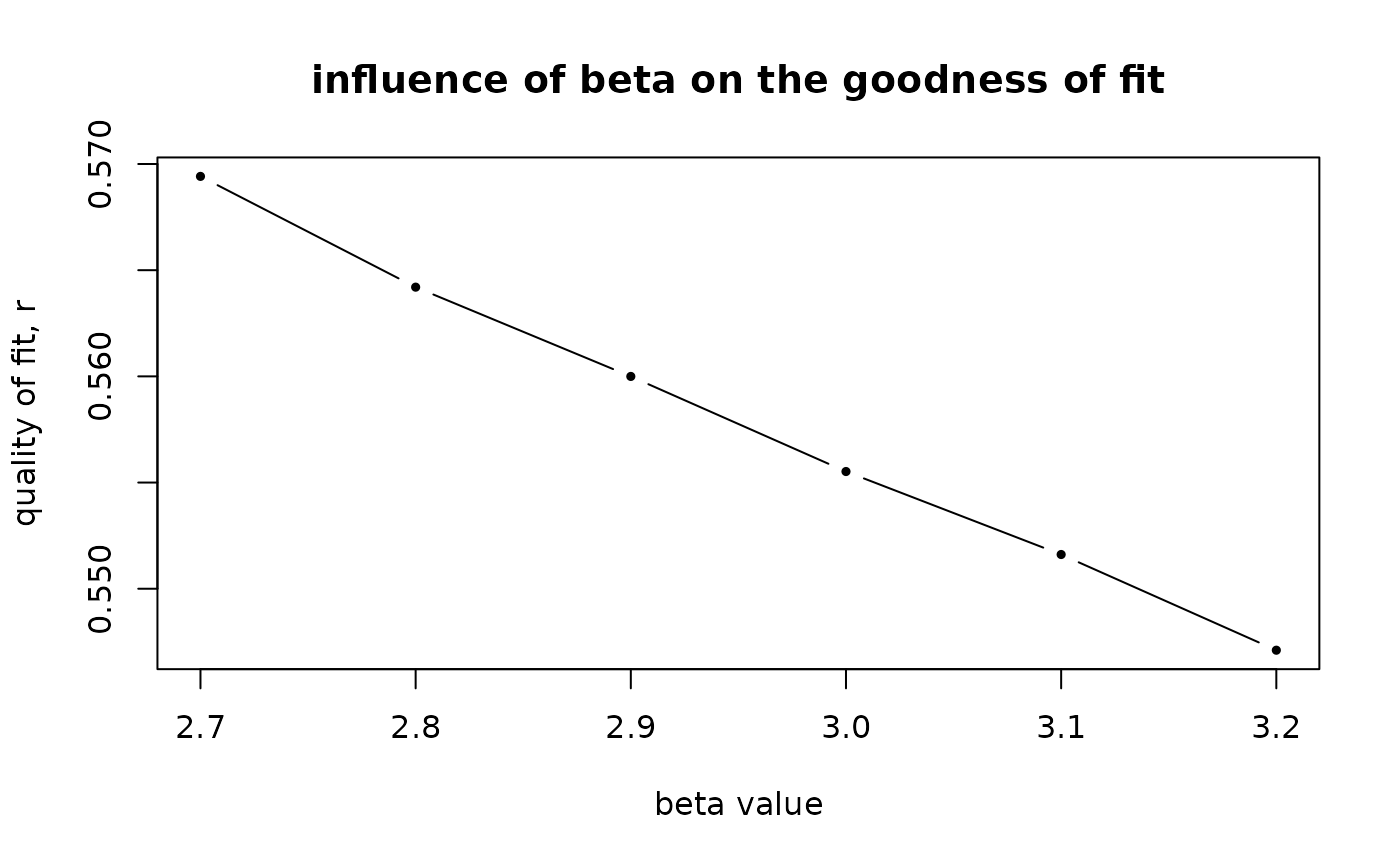
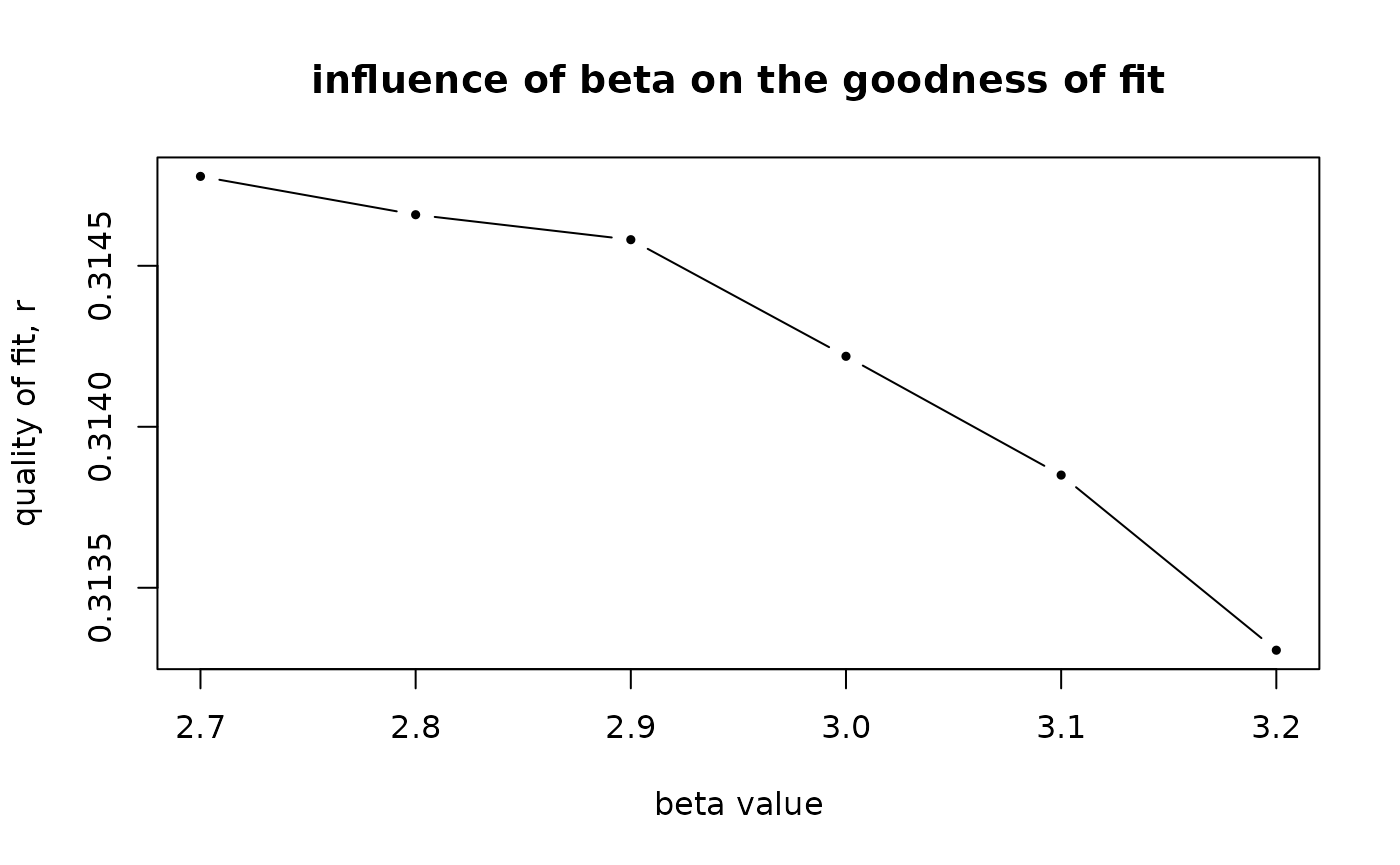
Deploying to gh-pages from @ ischlo/cppSim@bd26512b21cd6afe98d82de980b1934c41f14f0b 🚀

diff --git a/articles/gravity_model.html b/articles/gravity_model.html
@@ -66,6 +66,12 @@
 
     
     
+<pre><code><span><span class="co">## OpenMP detected, parallel computations will be performed.</span></span></code></pre>
+<pre><code><span><span class="co">## </span></span>
+<span><span class="co">## Attaching package: 'cppSim'</span></span></code></pre>
+<pre><code><span><span class="co">## The following object is masked _by_ '.GlobalEnv':</span></span>
+<span><span class="co">## </span></span>
+<span><span class="co">##     run_model</span></span></code></pre>
 <p>This file will cover the process of building a local version of the
 gravity model used to predict cycling and/or walking flows across
 London.</p>
@@ -96,26 +102,26 @@ and to the cost function and flow as matrices <strong>F</strong> and
 and
 <math display="inline" xmlns="http://www.w3.org/1998/Math/MathML"><semantics><msub><mi>T</mi><mrow><mi>i</mi><mi>j</mi></mrow></msub><annotation encoding="application/x-tex">T_{ij}</annotation></semantics></math>
 is a flow from i to j.</p>
-<div class="sourceCode" id="cb1"><pre class="downlit sourceCode r">
+<div class="sourceCode" id="cb4"><pre class="downlit sourceCode r">
 <code class="sourceCode R"><span><span class="co"># creating the O, D vectors. </span></span>
-<span><span class="va">O</span> <span class="op">&lt;-</span> <span class="fu"><a href="https://rdrr.io/r/base/apply.html" class="external-link">apply</a></span><span class="op">(</span><span class="va">flows_matrix</span>, <span class="va">sum</span>, MARGIN <span class="op">=</span> <span class="fl">2</span><span class="op">)</span> <span class="op">|&gt;</span> <span class="fu"><a href="https://rdrr.io/r/base/c.html" class="external-link">c</a></span><span class="op">(</span><span class="op">)</span></span>
+<span><span class="va">O</span> <span class="op">&lt;-</span> <span class="fu"><a href="https://rdrr.io/r/base/apply.html" class="external-link">apply</a></span><span class="op">(</span><span class="va">flows_test</span>, <span class="va">sum</span>, MARGIN <span class="op">=</span> <span class="fl">2</span><span class="op">)</span> <span class="op">|&gt;</span> <span class="fu"><a href="https://rdrr.io/r/base/c.html" class="external-link">c</a></span><span class="op">(</span><span class="op">)</span></span>
 <span></span>
-<span><span class="va">D</span> <span class="op">&lt;-</span> <span class="fu"><a href="https://rdrr.io/r/base/apply.html" class="external-link">apply</a></span><span class="op">(</span><span class="va">flows_matrix</span>, <span class="va">sum</span>, MARGIN <span class="op">=</span> <span class="fl">1</span><span class="op">)</span> <span class="op">|&gt;</span> <span class="fu"><a href="https://rdrr.io/r/base/c.html" class="external-link">c</a></span><span class="op">(</span><span class="op">)</span></span></code></pre></div>
-<div class="sourceCode" id="cb2"><pre class="downlit sourceCode r">
-<code class="sourceCode R"><span><span class="va">F_c</span> <span class="op">&lt;-</span> <span class="fu">cost_function</span><span class="op">(</span><span class="va">msoa_graph_dist</span>,<span class="fl">1</span>,type <span class="op">=</span> <span class="st">"exp"</span><span class="op">)</span></span></code></pre></div>
+<span><span class="va">D</span> <span class="op">&lt;-</span> <span class="fu"><a href="https://rdrr.io/r/base/apply.html" class="external-link">apply</a></span><span class="op">(</span><span class="va">flows_test</span>, <span class="va">sum</span>, MARGIN <span class="op">=</span> <span class="fl">1</span><span class="op">)</span> <span class="op">|&gt;</span> <span class="fu"><a href="https://rdrr.io/r/base/c.html" class="external-link">c</a></span><span class="op">(</span><span class="op">)</span></span></code></pre></div>
+<div class="sourceCode" id="cb5"><pre class="downlit sourceCode r">
+<code class="sourceCode R"><span><span class="va">F_c</span> <span class="op">&lt;-</span> <span class="fu">cost_function</span><span class="op">(</span><span class="va">distance_test</span>,<span class="fl">1</span>,type <span class="op">=</span> <span class="st">"exp"</span><span class="op">)</span></span></code></pre></div>
 <p>Next, we need to run the recursive procedure until the values
 stabilise. We introduce the threshold at which we will stop running the
 recursion
 <math display="inline" xmlns="http://www.w3.org/1998/Math/MathML"><semantics><mi>δ</mi><annotation encoding="application/x-tex">\delta</annotation></semantics></math>.
 It corresponds to the rate of change of the parameter with respect to
 the previous iteration.</p>
-<div class="sourceCode" id="cb3"><pre class="downlit sourceCode r">
+<div class="sourceCode" id="cb6"><pre class="downlit sourceCode r">
 <code class="sourceCode R"><span><span class="va">beta_calib</span> <span class="op">&lt;-</span> <span class="fu">foreach</span><span class="fu">::</span><span class="fu"><a href="https://rdrr.io/pkg/foreach/man/foreach.html" class="external-link">foreach</a></span><span class="op">(</span>i <span class="op">=</span> <span class="fl">28</span><span class="op">:</span><span class="fl">33</span></span>
 <span>                               ,.combine <span class="op">=</span> <span class="va">rbind</span><span class="op">)</span> <span class="op">%do%</span> <span class="op">{</span></span>
 <span>                                 <span class="va">beta</span> <span class="op">&lt;-</span> <span class="fl">0.1</span><span class="op">*</span><span class="op">(</span><span class="va">i</span> <span class="op">-</span> <span class="fl">1</span><span class="op">)</span></span>
 <span>                                 <span class="fu"><a href="https://rdrr.io/r/base/print.html" class="external-link">print</a></span><span class="op">(</span><span class="fu"><a href="https://rdrr.io/r/base/paste.html" class="external-link">paste0</a></span><span class="op">(</span><span class="st">"RUNNING MODEL FOR beta = "</span>,<span class="va">beta</span><span class="op">)</span><span class="op">)</span></span>
-<span>                                 <span class="va">run</span> <span class="op">&lt;-</span> <span class="fu"><a href="../reference/run_model.html">run_model</a></span><span class="op">(</span>flows <span class="op">=</span> <span class="va">flows_matrix</span></span>
-<span>                                                  ,distance <span class="op">=</span> <span class="va">msoa_graph_dist</span></span>
+<span>                                 <span class="va">run</span> <span class="op">&lt;-</span> <span class="fu"><a href="../reference/run_model.html">run_model</a></span><span class="op">(</span>flows <span class="op">=</span> <span class="va">flows_test</span></span>
+<span>                                                  ,distance <span class="op">=</span> <span class="va">distance_test</span></span>
 <span>                                                  ,beta <span class="op">=</span> <span class="va">beta</span></span>
 <span>                                                  ,type <span class="op">=</span> <span class="st">"exp"</span></span>
 <span>                                 <span class="op">)</span></span>
@@ -126,45 +132,45 @@ the previous iteration.</p>
 <span><span class="co">## [1] "cost function computed"</span></span>
 <span><span class="co">## [1] "calibration: over"</span></span>
 <span><span class="co">## [1] "model run: over"</span></span>
-<span><span class="co">## [1] "E_sor = 0.523562724685593"</span></span>
-<span><span class="co">## [1] "r2 = 0.569416661266395"</span></span>
-<span><span class="co">## [1] "RMSE = 761393"</span></span>
+<span><span class="co">## [1] "E_sor = 0.392146371104884"</span></span>
+<span><span class="co">## [1] "r2 = 0.314777655460119"</span></span>
+<span><span class="co">## [1] "RMSE = 22163551"</span></span>
 <span><span class="co">## [1] "RUNNING MODEL FOR beta = 2.8"</span></span>
 <span><span class="co">## [1] "cost function computed"</span></span>
 <span><span class="co">## [1] "calibration: over"</span></span>
 <span><span class="co">## [1] "model run: over"</span></span>
-<span><span class="co">## [1] "E_sor = 0.52139497161395"</span></span>
-<span><span class="co">## [1] "r2 = 0.564200958950744"</span></span>
-<span><span class="co">## [1] "RMSE = 782866"</span></span>
+<span><span class="co">## [1] "E_sor = 0.39249333259527"</span></span>
+<span><span class="co">## [1] "r2 = 0.314658641698322"</span></span>
+<span><span class="co">## [1] "RMSE = 22135915"</span></span>
 <span><span class="co">## [1] "RUNNING MODEL FOR beta = 2.9"</span></span>
 <span><span class="co">## [1] "cost function computed"</span></span>
 <span><span class="co">## [1] "calibration: over"</span></span>
 <span><span class="co">## [1] "model run: over"</span></span>
-<span><span class="co">## [1] "E_sor = 0.519608318386737"</span></span>
-<span><span class="co">## [1] "r2 = 0.559996858096147"</span></span>
-<span><span class="co">## [1] "RMSE = 802874"</span></span>
+<span><span class="co">## [1] "E_sor = 0.39273122700898"</span></span>
+<span><span class="co">## [1] "r2 = 0.314581076323428"</span></span>
+<span><span class="co">## [1] "RMSE = 22112582"</span></span>
 <span><span class="co">## [1] "RUNNING MODEL FOR beta = 3"</span></span>
 <span><span class="co">## [1] "cost function computed"</span></span>
 <span><span class="co">## [1] "calibration: over"</span></span>
 <span><span class="co">## [1] "model run: over"</span></span>
-<span><span class="co">## [1] "E_sor = 0.517600476428077"</span></span>
-<span><span class="co">## [1] "r2 = 0.555519600639465"</span></span>
-<span><span class="co">## [1] "RMSE = 823828"</span></span>
+<span><span class="co">## [1] "E_sor = 0.392611773609201"</span></span>
+<span><span class="co">## [1] "r2 = 0.314218919524871"</span></span>
+<span><span class="co">## [1] "RMSE = 22102764"</span></span>
 <span><span class="co">## [1] "RUNNING MODEL FOR beta = 3.1"</span></span>
 <span><span class="co">## [1] "cost function computed"</span></span>
 <span><span class="co">## [1] "calibration: over"</span></span>
 <span><span class="co">## [1] "model run: over"</span></span>
-<span><span class="co">## [1] "E_sor = 0.515506983755352"</span></span>
-<span><span class="co">## [1] "r2 = 0.551611759795211"</span></span>
-<span><span class="co">## [1] "RMSE = 843738"</span></span>
+<span><span class="co">## [1] "E_sor = 0.392377057376276"</span></span>
+<span><span class="co">## [1] "r2 = 0.313849972411283"</span></span>
+<span><span class="co">## [1] "RMSE = 22098059"</span></span>
 <span><span class="co">## [1] "RUNNING MODEL FOR beta = 3.2"</span></span>
 <span><span class="co">## [1] "cost function computed"</span></span>
 <span><span class="co">## [1] "calibration: over"</span></span>
 <span><span class="co">## [1] "model run: over"</span></span>
-<span><span class="co">## [1] "E_sor = 0.513382277125238"</span></span>
-<span><span class="co">## [1] "r2 = 0.547105339696983"</span></span>
-<span><span class="co">## [1] "RMSE = 864943"</span></span></code></pre>
-<div class="sourceCode" id="cb5"><pre class="downlit sourceCode r">
+<span><span class="co">## [1] "E_sor = 0.391924520987228"</span></span>
+<span><span class="co">## [1] "r2 = 0.313306091157044"</span></span>
+<span><span class="co">## [1] "RMSE = 22103251"</span></span></code></pre>
+<div class="sourceCode" id="cb8"><pre class="downlit sourceCode r">
 <code class="sourceCode R"><span><span class="fu"><a href="https://rdrr.io/r/graphics/plot.default.html" class="external-link">plot</a></span><span class="op">(</span><span class="va">beta_calib</span><span class="op">[</span>,<span class="fl">1</span><span class="op">]</span></span>
 <span>     ,<span class="va">beta_calib</span><span class="op">[</span>,<span class="fl">2</span><span class="op">]</span></span>
 <span>     ,xlab <span class="op">=</span> <span class="st">"beta value"</span></span>
@@ -174,7 +180,7 @@ the previous iteration.</p>
 <span>     ,cex <span class="op">=</span> <span class="fl">0.5</span></span>
 <span>     ,type <span class="op">=</span> <span class="st">"b"</span><span class="op">)</span></span></code></pre></div>
 <p><img src="gravity_model_files/figure-html/unnamed-chunk-5-1.png" width="700"></p>
-<div class="sourceCode" id="cb6"><pre class="downlit sourceCode r">
+<div class="sourceCode" id="cb9"><pre class="downlit sourceCode r">
 <code class="sourceCode R"><span><span class="va">beta_best_fit</span> <span class="op">&lt;-</span> <span class="va">beta_calib</span><span class="op">[</span><span class="fu"><a href="https://rdrr.io/r/base/which.html" class="external-link">which</a></span><span class="op">(</span><span class="va">beta_calib</span><span class="op">[</span>,<span class="fl">2</span><span class="op">]</span> <span class="op">==</span> <span class="fu"><a href="https://rdrr.io/r/base/Extremes.html" class="external-link">max</a></span><span class="op">(</span><span class="va">beta_calib</span><span class="op">[</span>,<span class="fl">2</span><span class="op">]</span><span class="op">)</span><span class="op">)</span>,<span class="fl">1</span><span class="op">]</span></span>
 <span><span class="va">x</span> <span class="op">&lt;-</span> <span class="fu"><a href="https://rdrr.io/r/base/seq.html" class="external-link">seq_len</a></span><span class="op">(</span><span class="fl">100</span><span class="op">)</span><span class="op">/</span><span class="fl">20</span></span>
 <span><span class="fu"><a href="https://rdrr.io/r/graphics/plot.default.html" class="external-link">plot</a></span><span class="op">(</span><span class="va">x</span></span>
@@ -186,19 +192,19 @@ the previous iteration.</p>
 <span>     ,cex <span class="op">=</span> <span class="fl">0.5</span></span>
 <span>     ,type <span class="op">=</span> <span class="st">"l"</span><span class="op">)</span></span></code></pre></div>
 <p><img src="gravity_model_files/figure-html/unnamed-chunk-6-1.png" width="700"></p>
-<div class="sourceCode" id="cb7"><pre class="downlit sourceCode r">
-<code class="sourceCode R"><span><span class="va">run_best_fit</span> <span class="op">&lt;-</span> <span class="fu"><a href="../reference/run_model.html">run_model</a></span><span class="op">(</span>flows <span class="op">=</span> <span class="va">flows_matrix</span></span>
-<span>                 ,distance <span class="op">=</span> <span class="va">msoa_graph_dist</span></span>
+<div class="sourceCode" id="cb10"><pre class="downlit sourceCode r">
+<code class="sourceCode R"><span><span class="va">run_best_fit</span> <span class="op">&lt;-</span> <span class="fu"><a href="../reference/run_model.html">run_model</a></span><span class="op">(</span>flows <span class="op">=</span> <span class="va">flows_test</span></span>
+<span>                 ,distance <span class="op">=</span> <span class="va">distance_test</span></span>
 <span>                 ,beta <span class="op">=</span> <span class="va">beta_best_fit</span></span>
 <span>                 ,type <span class="op">=</span> <span class="st">"exp"</span></span>
 <span>                 <span class="op">)</span></span></code></pre></div>
 <pre><code><span><span class="co">## [1] "cost function computed"</span></span>
 <span><span class="co">## [1] "calibration: over"</span></span>
 <span><span class="co">## [1] "model run: over"</span></span>
-<span><span class="co">## [1] "E_sor = 0.523562724685593"</span></span>
-<span><span class="co">## [1] "r2 = 0.569416661266395"</span></span>
-<span><span class="co">## [1] "RMSE = 761393"</span></span></code></pre>
-<div class="sourceCode" id="cb9"><pre class="downlit sourceCode r">
+<span><span class="co">## [1] "E_sor = 0.392146371104884"</span></span>
+<span><span class="co">## [1] "r2 = 0.314777655460119"</span></span>
+<span><span class="co">## [1] "RMSE = 22163551"</span></span></code></pre>
+<div class="sourceCode" id="cb12"><pre class="downlit sourceCode r">
 <code class="sourceCode R"><span><span class="fu"><a href="https://rdrr.io/r/graphics/plot.default.html" class="external-link">plot</a></span><span class="op">(</span><span class="fu"><a href="https://rdrr.io/r/base/seq.html" class="external-link">seq_along</a></span><span class="op">(</span><span class="va">run_best_fit</span><span class="op">$</span><span class="va">calib</span><span class="op">)</span></span>
 <span>     ,<span class="va">run_best_fit</span><span class="op">$</span><span class="va">calib</span></span>
 <span>     ,xlab <span class="op">=</span> <span class="st">"iteration"</span></span>
@@ -210,8 +216,8 @@ the previous iteration.</p>
 <span>     </span>
 <span><span class="op">)</span></span></code></pre></div>
 <p><img src="gravity_model_files/figure-html/unnamed-chunk-8-1.png" width="700"></p>
-<div class="sourceCode" id="cb10"><pre class="downlit sourceCode r">
-<code class="sourceCode R"><span><span class="fu"><a href="https://rdrr.io/r/graphics/plot.default.html" class="external-link">plot</a></span><span class="op">(</span><span class="va">flows_matrix</span></span>
+<div class="sourceCode" id="cb13"><pre class="downlit sourceCode r">
+<code class="sourceCode R"><span><span class="fu"><a href="https://rdrr.io/r/graphics/plot.default.html" class="external-link">plot</a></span><span class="op">(</span><span class="va">flows_test</span></span>
 <span>     ,<span class="va">run_best_fit</span><span class="op">$</span><span class="va">values</span></span>
 <span>     ,ylab <span class="op">=</span> <span class="st">"flows model"</span></span>
 <span>     ,xlab <span class="op">=</span> <span class="st">"flows"</span></span>
@@ -223,10 +229,14 @@ the previous iteration.</p>
 <span>      ,col <span class="op">=</span> <span class="st">"darkred"</span></span>
 <span>      ,lwd <span class="op">=</span> <span class="fl">2</span><span class="op">)</span></span></code></pre></div>
 <p><img src="gravity_model_files/figure-html/unnamed-chunk-9-1.png" width="700"></p>
-<div class="sourceCode" id="cb11"><pre class="downlit sourceCode r">
+<div class="sourceCode" id="cb14"><pre class="downlit sourceCode r">
 <code class="sourceCode R"><span><span class="co">## MODEL USING THE GLM And POISSON DISTRIBUTION</span></span>
 <span></span>
-<span><span class="va">flows_london</span> <span class="op">&lt;-</span> <span class="fu">rlist</span><span class="fu">::</span><span class="fu"><a href="https://rdrr.io/pkg/rlist/man/list.load.html" class="external-link">list.load</a></span><span class="op">(</span><span class="st">"flows_london.rds"</span><span class="op">)</span></span>
+<span><span class="co"># flows_london &lt;- rlist::list.load("flows_london.rds")</span></span>
+<span></span>
+<span><span class="fu"><a href="https://rdrr.io/r/utils/data.html" class="external-link">data</a></span><span class="op">(</span><span class="va">flows_london</span><span class="op">)</span></span>
+<span></span>
+<span><span class="va">flows_london</span> <span class="op">&lt;-</span> <span class="va">flows_london</span></span>
 <span></span>
 <span><span class="va">sample_od</span> <span class="op">&lt;-</span> <span class="fu"><a href="https://rdrr.io/r/base/sample.html" class="external-link">sample</a></span><span class="op">(</span><span class="fu"><a href="https://rdrr.io/r/base/unique.html" class="external-link">unique</a></span><span class="op">(</span><span class="va">flows_london</span><span class="op">$</span><span class="va">workplace</span><span class="op">)</span>,<span class="fl">100</span><span class="op">)</span></span>
 <span></span>
@@ -245,7 +255,7 @@ the previous iteration.</p>
 <span></span>
 <span><span class="op">(</span><span class="op">(</span><span class="va">model</span><span class="op">$</span><span class="va">fitted.values</span> <span class="op">-</span> <span class="va">flows_grav</span><span class="op">$</span><span class="va">bike</span><span class="op">)</span><span class="op">)</span> <span class="op">|&gt;</span> <span class="fu"><a href="https://rdrr.io/r/graphics/hist.html" class="external-link">hist</a></span><span class="op">(</span>breaks <span class="op">=</span> <span class="fl">100</span><span class="op">)</span></span></code></pre></div>
 <p><img src="gravity_model_files/figure-html/unnamed-chunk-10-1.png" width="700"></p>
-<div class="sourceCode" id="cb12"><pre class="downlit sourceCode r">
+<div class="sourceCode" id="cb15"><pre class="downlit sourceCode r">
 <code class="sourceCode R"><span><span class="va">r2</span> <span class="op">&lt;-</span> <span class="fu">r_2</span><span class="op">(</span><span class="va">flows_grav</span><span class="op">$</span><span class="va">bike</span>,<span class="va">model</span><span class="op">$</span><span class="va">fitted.values</span><span class="op">)</span></span>
 <span><span class="va">r2</span></span></code></pre></div>
 <pre><code><span><span class="co">## [1] 0.8854178</span></span></code></pre>
@@ -253,10 +263,10 @@ the previous iteration.</p>
 <div class="section level2">
 <h2 id="support-functions">Support functions<a class="anchor" aria-label="anchor" href="#support-functions"></a>
 </h2>
-<div class="sourceCode" id="cb14"><pre class="downlit sourceCode r">
+<div class="sourceCode" id="cb17"><pre class="downlit sourceCode r">
 <code class="sourceCode R"><span><span class="fu"><a href="https://rdrr.io/r/base/print.html" class="external-link">print</a></span><span class="op">(</span><span class="st">"cost function:"</span><span class="op">)</span></span></code></pre></div>
 <pre><code><span><span class="co">## [1] "cost function:"</span></span></code></pre>
-<div class="sourceCode" id="cb16"><pre class="downlit sourceCode r">
+<div class="sourceCode" id="cb19"><pre class="downlit sourceCode r">
 <code class="sourceCode R"><span><span class="va">cost_function</span></span></code></pre></div>
 <pre><code><span><span class="co">## function (d, beta, type = "exp") </span></span>
 <span><span class="co">## {</span></span>
@@ -270,11 +280,11 @@ the previous iteration.</p>
 <span><span class="co">##         print("provide a type of functino to compute")</span></span>
 <span><span class="co">##     }</span></span>
 <span><span class="co">## }</span></span>
-<span><span class="co">## &lt;bytecode: 0x557e55dc3208&gt;</span></span></code></pre>
-<div class="sourceCode" id="cb18"><pre class="downlit sourceCode r">
+<span><span class="co">## &lt;bytecode: 0x55e1ac389570&gt;</span></span></code></pre>
+<div class="sourceCode" id="cb21"><pre class="downlit sourceCode r">
 <code class="sourceCode R"><span><span class="fu"><a href="https://rdrr.io/r/base/print.html" class="external-link">print</a></span><span class="op">(</span><span class="st">"calibration function:"</span><span class="op">)</span></span></code></pre></div>
 <pre><code><span><span class="co">## [1] "calibration function:"</span></span></code></pre>
-<div class="sourceCode" id="cb20"><pre class="downlit sourceCode r">
+<div class="sourceCode" id="cb23"><pre class="downlit sourceCode r">
 <code class="sourceCode R"><span><span class="va">calibration</span></span></code></pre></div>
 <pre><code><span><span class="co">## function (cost_fun, O, D, delta = 0.05) </span></span>
 <span><span class="co">## {</span></span>
@@ -295,11 +305,11 @@ the previous iteration.</p>
 <span><span class="co">##     }</span></span>
 <span><span class="co">##     list(A = A, B = B, e = e)</span></span>
 <span><span class="co">## }</span></span>
-<span><span class="co">## &lt;bytecode: 0x557e554b6278&gt;</span></span></code></pre>
-<div class="sourceCode" id="cb22"><pre class="downlit sourceCode r">
+<span><span class="co">## &lt;bytecode: 0x55e1ab4f6ee8&gt;</span></span></code></pre>
+<div class="sourceCode" id="cb25"><pre class="downlit sourceCode r">
 <code class="sourceCode R"><span><span class="fu"><a href="https://rdrr.io/r/base/print.html" class="external-link">print</a></span><span class="op">(</span><span class="st">"model run"</span><span class="op">)</span></span></code></pre></div>
 <pre><code><span><span class="co">## [1] "model run"</span></span></code></pre>
-<div class="sourceCode" id="cb24"><pre class="downlit sourceCode r">
+<div class="sourceCode" id="cb27"><pre class="downlit sourceCode r">
 <code class="sourceCode R"><span><span class="va">run_model</span></span></code></pre></div>
 <pre><code><span><span class="co">## function (flows, distance, beta = 0.25, type = "exp") </span></span>
 <span><span class="co">## {</span></span>
@@ -333,7 +343,7 @@ the previous iteration.</p>
 <span><span class="co">##     list(values = flows_model, r2 = r2, rmse = RMSE, calib = A_B$e, </span></span>
 <span><span class="co">##         e_sor = e_sor)</span></span>
 <span><span class="co">## }</span></span>
-<span><span class="co">## &lt;bytecode: 0x557e55b1d818&gt;</span></span></code></pre>
+<span><span class="co">## &lt;bytecode: 0x55e1ac08e6e8&gt;</span></span></code></pre>
 </div>
   </main><aside class="col-md-3"><nav id="toc" aria-label="Table of contents"><h2>On this page</h2>
     </nav></aside>

diff --git a/reference/flows_london.html b/reference/flows_london.html
@@ -1,0 +1,85 @@
+<!DOCTYPE html>
+<!-- Generated by pkgdown: do not edit by hand --><html lang="en"><head><meta http-equiv="Content-Type" content="text/html; charset=UTF-8"><meta charset="utf-8"><meta http-equiv="X-UA-Compatible" content="IE=edge"><meta name="viewport" content="width=device-width, initial-scale=1, shrink-to-fit=no"><title>flows_london — flows_london • cppSim</title><script src="../deps/jquery-3.6.0/jquery-3.6.0.min.js"></script><meta name="viewport" content="width=device-width, initial-scale=1, shrink-to-fit=no"><link href="../deps/bootstrap-5.3.1/bootstrap.min.css" rel="stylesheet"><script src="../deps/bootstrap-5.3.1/bootstrap.bundle.min.js"></script><link href="../deps/font-awesome-6.5.2/css/all.min.css" rel="stylesheet"><link href="../deps/font-awesome-6.5.2/css/v4-shims.min.css" rel="stylesheet"><script src="../deps/headroom-0.11.0/headroom.min.js"></script><script src="../deps/headroom-0.11.0/jQuery.headroom.min.js"></script><script src="../deps/bootstrap-toc-1.0.1/bootstrap-toc.min.js"></script><script src="../deps/clipboard.js-2.0.11/clipboard.min.js"></script><script src="../deps/search-1.0.0/autocomplete.jquery.min.js"></script><script src="../deps/search-1.0.0/fuse.min.js"></script><script src="../deps/search-1.0.0/mark.min.js"></script><!-- pkgdown --><script src="../pkgdown.js"></script><meta property="og:title" content="flows_london — flows_london"><meta name="description" content="flows_london"><meta property="og:description" content="flows_london"></head><body>
+    <a href="#main" class="visually-hidden-focusable">Skip to contents</a>
+
+
+    <nav class="navbar navbar-expand-lg fixed-top bg-light" data-bs-theme="light" aria-label="Site navigation"><div class="container">
+
+    <a class="navbar-brand me-2" href="../index.html">cppSim</a>
+
+    <small class="nav-text text-muted me-auto" data-bs-toggle="tooltip" data-bs-placement="bottom" title="">0.2</small>
+
+
+    <button class="navbar-toggler" type="button" data-bs-toggle="collapse" data-bs-target="#navbar" aria-controls="navbar" aria-expanded="false" aria-label="Toggle navigation">
+      <span class="navbar-toggler-icon"></span>
+    </button>
+
+    <div id="navbar" class="collapse navbar-collapse ms-3">
+      <ul class="navbar-nav me-auto"><li class="active nav-item"><a class="nav-link" href="../reference/index.html">Reference</a></li>
+<li class="nav-item dropdown">
+  <button class="nav-link dropdown-toggle" type="button" id="dropdown-articles" data-bs-toggle="dropdown" aria-expanded="false" aria-haspopup="true">Articles</button>
+  <ul class="dropdown-menu" aria-labelledby="dropdown-articles"><li><a class="dropdown-item" href="../articles/getting_started_2.html">Getting started</a></li>
+    <li><a class="dropdown-item" href="../articles/gravity_model.html">Gravity model</a></li>
+  </ul></li>
+<li class="nav-item"><a class="nav-link" href="../news/index.html">Changelog</a></li>
+      </ul><ul class="navbar-nav"><li class="nav-item"><form class="form-inline" role="search">
+ <input class="form-control" type="search" name="search-input" id="search-input" autocomplete="off" aria-label="Search site" placeholder="Search for" data-search-index="../search.json"></form></li>
+<li class="nav-item"><a class="external-link nav-link" href="https://github.com/ischlo/cppSim/" aria-label="GitHub"><span class="fa fab fa-github fa-lg"></span></a></li>
+      </ul></div>
+
+
+  </div>
+</nav><div class="container template-reference-topic">
+<div class="row">
+  <main id="main" class="col-md-9"><div class="page-header">
+
+      <h1>flows_london</h1>
+      <small class="dont-index">Source: <a href="https://github.com/ischlo/cppSim/blob/main/R/data.R" class="external-link"><code>R/data.R</code></a></small>
+      <div class="d-none name"><code>flows_london.Rd</code></div>
+    </div>
+
+    <div class="ref-description section level2">
+    <p>flows_london</p>
+    </div>
+
+    <div class="section level2">
+    <h2 id="ref-usage">Usage<a class="anchor" aria-label="anchor" href="#ref-usage"></a></h2>
+    <div class="sourceCode"><pre class="sourceCode r"><code><span><span class="va">flows_london</span></span></code></pre></div>
+    </div>
+
+    <div class="section level2">
+    <h2 id="format">Format<a class="anchor" aria-label="anchor" href="#format"></a></h2>
+
+<div class="section">
+<h3 id="flows-london"><code>flows_london</code><a class="anchor" aria-label="anchor" href="#flows-london"></a></h3>
+
+
+<p>A data.table with flows information</p>
+</div>
+
+    </div>
+    <div class="section level2">
+    <h2 id="source">Source<a class="anchor" aria-label="anchor" href="#source"></a></h2>
+    <p>ONS, Office for National Statistics, 2011</p>
+    </div>
+
+  </main><aside class="col-md-3"><nav id="toc" aria-label="Table of contents"><h2>On this page</h2>
+    </nav></aside></div>
+
+
+    <footer><div class="pkgdown-footer-left">
+  <p>Developed by Ivann Schlosser.</p>
+</div>
+
+<div class="pkgdown-footer-right">
+  <p>Site built with <a href="https://pkgdown.r-lib.org/" class="external-link">pkgdown</a> 2.1.1.</p>
+</div>
+
+    </footer></div>
+
+
+
+
+
+  </body></html>
+

diff --git a/articles/getting_started_2.html b/articles/getting_started_2.html
@@ -95,7 +95,9 @@ that come with this package to demonstrate power of
 <span></span>
 <span><span class="fu"><a href="https://rdrr.io/r/utils/data.html" class="external-link">data</a></span><span class="op">(</span><span class="st">"distance_test"</span><span class="op">)</span></span>
 <span><span class="fu"><a href="https://rdrr.io/r/utils/data.html" class="external-link">data</a></span><span class="op">(</span><span class="st">"flows_test"</span><span class="op">)</span></span>
-<span><span class="fu"><a href="https://rdrr.io/r/utils/data.html" class="external-link">data</a></span><span class="op">(</span><span class="st">"london_msoa"</span><span class="op">)</span></span></code></pre></div>
+<span><span class="fu"><a href="https://rdrr.io/r/utils/data.html" class="external-link">data</a></span><span class="op">(</span><span class="st">"london_msoa"</span><span class="op">)</span></span>
+<span></span>
+<span><span class="va">distance_test</span> <span class="op">&lt;-</span> <span class="va">distance_test</span> <span class="op">/</span> <span class="fl">1000</span></span></code></pre></div>
 <p>The two data sets provided consist in the flow matrix
 <code>flows_test</code> with cycling and walking flows combined between
 every MSOA in Greater London. The data was obtained from the 2011 UK
@@ -151,7 +153,7 @@ data:</p>
 <span>  <span class="fu"><a href="https://rdrr.io/r/base/c.html" class="external-link">c</a></span><span class="op">(</span><span class="va">res_model</span><span class="op">$</span><span class="va">values</span><span class="op">)</span>,</span>
 <span>  <span class="fu"><a href="https://rdrr.io/r/base/c.html" class="external-link">c</a></span><span class="op">(</span><span class="va">flows_test</span><span class="op">)</span></span>
 <span><span class="op">)</span></span>
-<span><span class="co">#&gt; [1] 0.5903494</span></span></code></pre></div>
+<span><span class="co">#&gt; [1] 0.5903496</span></span></code></pre></div>
 <p>the correlation is already high, but we can do better, for that, we
 will need to calibrate the model. This is done with the
 <code>simulation</code> function, it will find the optimal cost function
@@ -170,11 +172,11 @@ determine the optimal distance decay coefficient, do the following:</p>
 <span></span>
 <span><span class="fu"><a href="https://rdrr.io/r/utils/str.html" class="external-link">str</a></span><span class="op">(</span><span class="va">res_sim</span><span class="op">)</span></span>
 <span><span class="co">#&gt; List of 2</span></span>
-<span><span class="co">#&gt;  $ best_fit_values: num [1:983, 1:983] 1.43e+03 2.87e-03 9.48e-03 8.72e-04 8.05e-03 ...</span></span>
+<span><span class="co">#&gt;  $ best_fit_values: num [1:983, 1:983] 1.43e+03 2.87e-03 9.47e-03 8.73e-04 8.05e-03 ...</span></span>
 <span><span class="co">#&gt;  $ best_fit_beta  : num 0.962</span></span>
 <span></span>
 <span><span class="va">res_sim</span><span class="op">$</span><span class="va">best_fit_beta</span></span>
-<span><span class="co">#&gt; [1] 0.9615716</span></span></code></pre></div>
+<span><span class="co">#&gt; [1] 0.9616045</span></span></code></pre></div>
 <p>The output will be a list with two elements, first the output of a
 model run that best fits the observed data. Second, the optimal distance
 decay exponent that produces this result. This value will be relevant
@@ -193,7 +195,7 @@ for further modelling. Let’s see some of the model results:</p>
 <span>  x <span class="op">=</span> <span class="fu"><a href="https://rdrr.io/r/base/c.html" class="external-link">c</a></span><span class="op">(</span><span class="va">res_sim</span><span class="op">$</span><span class="va">best_fit_values</span><span class="op">)</span>,</span>
 <span>  y <span class="op">=</span> <span class="fu"><a href="https://rdrr.io/r/base/c.html" class="external-link">c</a></span><span class="op">(</span><span class="va">flows_test</span><span class="op">)</span></span>
 <span><span class="op">)</span></span>
-<span><span class="co">#&gt; [1] 0.9287456</span></span></code></pre></div>
+<span><span class="co">#&gt; [1] 0.9287459</span></span></code></pre></div>
 <!-- # Conclusion -->
 </div>
 </div>

diff --git a/reference/index.html b/reference/index.html
@@ -67,6 +67,12 @@
         <dd>distance_test</dd>
       </dl><dl><dt>
 
+          <code><a href="flows_london.html">flows_london</a></code>
+
+        </dt>
+        <dd>flows_london</dd>
+      </dl><dl><dt>
+
           <code><a href="flows_test.html">flows_test</a></code>
 
         </dt>
